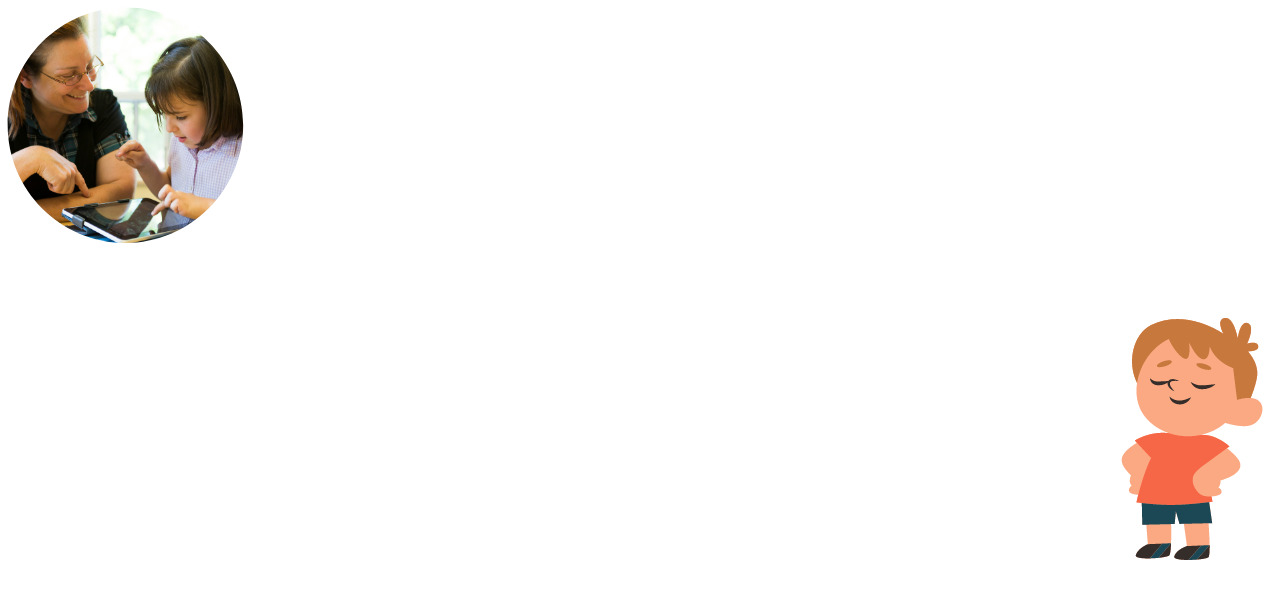
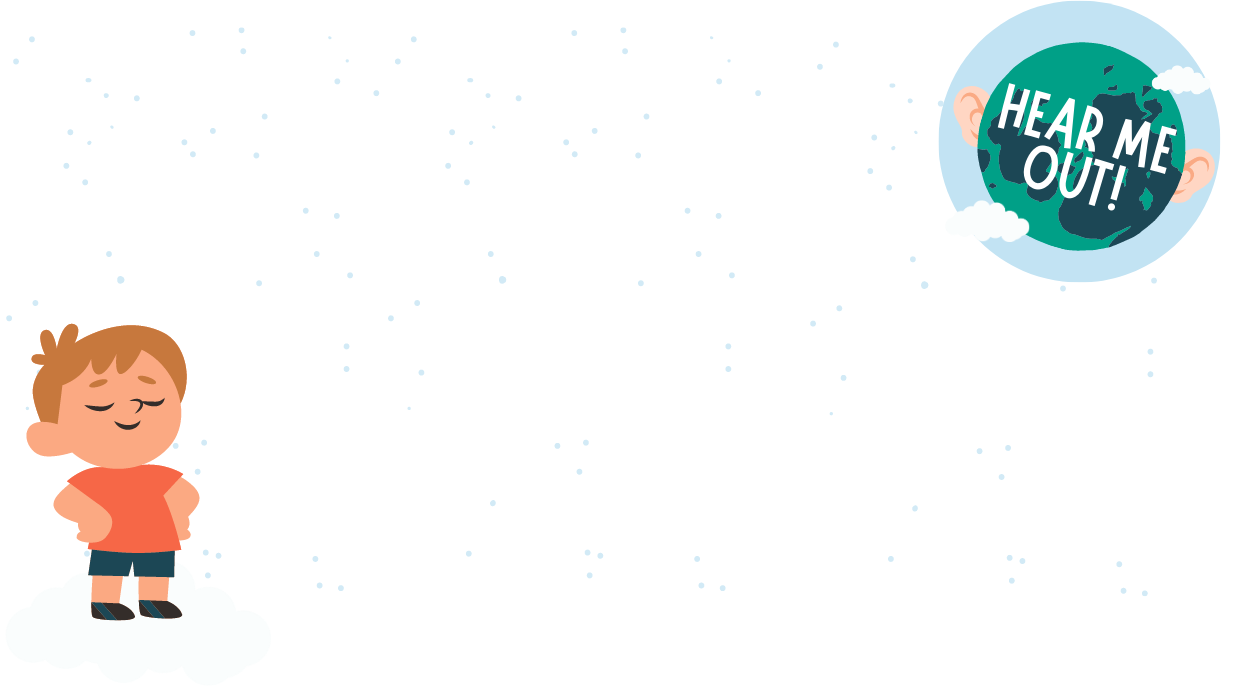
about page complete

diff --git a/minimal-pairs-app/src/pages/AboutPage.js b/minimal-pairs-app/src/pages/AboutPage.js
@@ -1,97 +1,165 @@
-
-// 2ND ATTEMPT
-import React, { useEffect } from 'react';
-import { Typography, List } from '@mui/material';
+import React, { useState } from 'react';
+import { Typography, IconButton, Grid } from '@mui/material';
 import { useTheme } from '@mui/material/styles';
 import PageBg from './../images/pagesBg/skyAndCloudsBg.png';
 import AboutBg from './../images/pagesBg/aboutPageSquar.png';
-import { makeStyles } from '@mui/styles';
-import hearMeOutIcon from './../images/kids/HEARMEOUT-Icon.png';
-const useStyles = makeStyles((theme) => ({
-  background: {
-    position: 'fixed',
-    top: 0,
-    left: 0,
-    width: '100%',
-    height: '100%',
-    backgroundImage: `url(${PageBg})`,
-    backgroundSize: 'cover',
-    backgroundPosition: 'center',
-    backgroundRepeat: 'no-repeat',
-    zIndex: -1,
-  },
-  title: {
-    position: 'absolute',
-    top: 20,
-    left: 20,
-    color: '#fff',
-    fontSize: 24,
-    zIndex: 1,
-  },
-  icon: {
-    position: 'absolute',
-    top: '6%',
-    left: '46%',
-    zIndex: 1,
-    height: '114px', 
-    width: '114px',
-  },
-  mainMenu: {
-    position: 'absolute',
-    width: '75%',
-    left: '50%',
-    top: '45%',
-    transform: 'translate(-50%, -50%)',
-    textAlign: 'right',
-  },
-  backgroundSquare: {
-    width: '100%',
-    maxHeight: '100%',
-  },
-  typography: {
-    position: 'absolute',
-    top: '21%',
-    left: '45%',
-    zIndex: 1,
-   
-  },
-}));
+import nextBtn from './../images/buttons/leftArrowBlueBtn.png';
+import prevBtn from './../images/buttons/rightArrowBlueBtn.png';
+
 function AboutPage() {
-  const classes = useStyles();
   const theme = useTheme();
+  const [currentSection, setCurrentSection] = useState(0);
 
-  useEffect(() => {
-    const handleResize = () => {
-      const title = document.getElementById('title');
-      const iconButton = document.getElementById('iconButton');
-    };
-    window.addEventListener('resize', handleResize);
-
-    return () => {
-      window.removeEventListener('resize', handleResize);
-    };
-  }, []);
-
-  return (
-    <div className={classes.background}>
-       <img src={hearMeOutIcon} className={classes.icon} />
-      <div className={classes.mainMenu}>
-        <center><img className={classes.backgroundSquare} src={AboutBg}></img></center>
-        <div className={classes.typography} >
-          <Typography fontSize={'250%'} fontWeight="bold" color={theme.palette.darkBlue}>
-            אודות
-          </Typography>
-          <Typography>
-            על האפליקציה:<br /><br />
-
-            רקע:<br /><br />
-
-            המפתחות:<br /><br />
+  const sections = [
+    <>
+      <div style={{ padding: '10px', marginTop: '70px' }}>
+        <Typography fontSize={'110%'}>
+        אנחנו - עמית ארליך, מיה בן שטח ויובל הוכמן, סטודנטיות בשנה שלישית למדעי המחשב<br/>
+        באקדמית ת"א-יפו, שמחות לשתף באפליקציה המיוחדת שבנינו<br/><br/>
         </Typography>
+      </div>
+      <div style={{ padding: '40px' }}></div>
+    </>,
+    <>
+      <div style={{ padding: '5px' }}>
+        <Typography fontSize={'150%'} fontWeight="bold" color={theme.palette.darkBlue}>
+        הרעיון שהביא לחיים את האפליקציה
+        </Typography>
+        <Typography fontSize={'110%'}>
+        מדובר בכלי המטרתו לסייע לקלינאי תקשורת באימוני שמיעה מיוחדים,<br/>
+        מותאמים לילדים בגילאי 5 עד 7, שעברו השתלת שתל השבלול עקב חירשות או לקות שמיעה חמורה. למושתל שבלול יש צורך באימוני שמיעה בכדי לרכוש את היכולת להבחין בין חלקי המילה ע"י שמיעה וזאת כדי שיוכל לקלוט, ללמוד ולהבין את השפה ואת משמעות המילים.
+        </Typography>
+      </div>
+      <div style={{ padding: '49px' }}></div>
+    </>,
+    <>
+      <div style={{ padding: '5px' }}>
+        <Typography fontSize={'150%'} fontWeight="bold" color={theme.palette.darkBlue}>
+        משימתנו: שדרוג אימוני שמיעה בעזרת כלי טכנולוגי
+        </Typography>
+        <Typography fontSize={'110%'}>
+        יצרנו פתרון טכנולוגי לאימון ההבחנה של הילדים בין חלקי המילה באמצעות השמיעה.<br/>
+        </Typography>
+        <div style={{ padding: '12px' }}>
+          <Typography fontSize={'110%'}>
+          האפליקציה כוללת תרגולים אטרקטיביים כאשר כל אחד מוגדר לפי סוג תרגול, קוליות, רשימת הגיים וקול הקראה. על הילדים לזהות מילה אחת מתוך שתיים שנבדלות בתכונה אקוסטית אחת. נוסף לכך, האפליקציה כוללת משחקי חיזוק על מנת למשוך את הילדים להמשיך לתרגל ולתגמל
+אותם על הלמידה.
+          </Typography>
         </div>
       </div>
-    </div>
+      <div style={{ padding: '23.5px' }}></div>
+    </>,
+    <>
+      <div style={{ padding: '5px' }}>
+        <Typography fontSize={'150%'} fontWeight="bold" color={theme.palette.darkBlue}>
+        הפרויקט שנוצר משיתוף פעולה מיוחד
+        </Typography>
+        <Typography fontSize={'110%'}>
+        בראש ובראשונה, הכרת תודה ענקית לקלינאית התקשורת ברטי בן-ישי שהייתה חלק
+          </Typography>
+        <Typography fontSize={'110%'}>
+        בלתי נפרד מהפרויקט. תודה ללילך פאר ולכל קלינאי התקשורת שענו על כל שאלה והכווינו במהלך הפיתוח.
+תודה לגיא דוד תרם את קולו והפריח חיים באפליקציה.
+          </Typography>
+          <div style={{ padding: '12px' }}>
+            <Typography fontSize={'110%'}>
+            תודה לכולם על הנתינה הרבה, הזמן והמאמץ שהושקע על הפרויקט.
+            </Typography>
+          </div>
+        </div>
+      <div style={{ padding: '37px' }}></div>
+    </>,
+    <>
+      <div style={{ padding: '10px', marginTop: '70px' }}>
+        <Typography fontSize={'110%'}>
+        אנו גאות להציע את האפליקציה שלנו ככלי ייחודי, מתקדם וטכנולוגי לקלינאי תקשורת והילדים. אנו מתרגשות לחשוף את המוצר לעולם ומזמינות אתכם להיות חלק מהחוויה של אימון שמיעתי משודרג!
+<br/><br/>
+        </Typography>
+      </div>
+      <div style={{ padding: '40px' }}></div>
+    </>,
+  ];
 
+  const goToNextSection = () => {
+    if (currentSection < sections.length - 1) {
+      setCurrentSection(currentSection + 1);
+    }
+  };
+
+  const goToPreviousSection = () => {
+    if (currentSection > 0) {
+      setCurrentSection(currentSection - 1);
+    }
+  };
+
+  return (
+    <div className="App" style={{ 
+      display: 'flex', 
+      justifyContent: 'center', 
+      alignItems: 'center', 
+      height: '100vh',
+      position: 'absolute',
+      width: '100%',
+      backgroundImage: `url(${PageBg})`,
+      backgroundSize: 'cover',
+      backgroundPosition: 'center',
+      backgroundRepeat: 'no-repeat',
+      zIndex: -1,
+      direction: 'rtl',
+    }}>
+      <div className="board-container" style={{ 
+        justifyContent: 'center', 
+        alignItems: 'center', 
+        height: '100vh',
+        width: '90%', // Adjust the width of the container
+        maxWidth: '1000px', // Set a maximum width
+        maxHeight: '500px', 
+        margin: '0 auto', // Center horizontally
+        padding: '20px',
+        backgroundImage: `url(${AboutBg})`,
+        backgroundSize: 'contain',
+        backgroundPosition: 'center',
+        backgroundRepeat: 'no-repeat',
+        zIndex: -1,
+        textAlign: 'center', // Center align the text
+      }}>
+          <div className="board-container" style={{ 
+            padding: '20px',
+            maxHeight: '400px',
+            maxWidth: '700px',
+            margin: '0 auto',
+          }}>
+            <Typography fontSize={'400%'} fontWeight="bold" color={theme.palette.darkBlue}>
+              אודות
+            </Typography>
+            {sections[currentSection]}
+            <div style={{ display: 'flex',
+                          justifyContent: 'center',
+                          gap: '80px',
+                          position: 'relative',
+                          left: 0,
+                          right: 0,
+                          }}>
+              <IconButton onClick={goToPreviousSection}
+                          disabled={currentSection === 0}
+                          style={{
+                            opacity: currentSection === 0 ? 0.5 : 1, 
+                            pointerEvents: currentSection === 0 ? 'none' : 'auto', 
+              }}>
+                <img src={prevBtn} style={{ width: '100%', height: '100%' }} alt="Previous" />
+              </IconButton>
+              <IconButton onClick={goToNextSection}
+                          disabled={currentSection === sections.length - 1}
+                          style={{
+                            opacity: currentSection === sections.length - 1 ? 0.5 : 1, 
+                            pointerEvents: currentSection === sections.length - 1 ? 'none' : 'auto',
+              }}>
+                <img src={nextBtn} style={{ width: '100%', height: '100%' }} alt="Next" />
+              </IconButton>
+            </div>
+          </div>
+        </div>
+    </div>
   );
 }
 

diff --git a/minimal-pairs-app/src/pages/ExercisePage.js b/minimal-pairs-app/src/pages/ExercisePage.js
@@ -212,17 +212,23 @@ export default function ExercisePage() {
           </div>
           <Grid container justifyContent='center' style={{ textAlign: 'center', width: '50%', height: '20%' }}>
             <Grid item xs={4}>
-              <IconButton color="inherit" onClick={handleNextClick} disabled={currentIndex === images?.length - 1} style={{ filter: currentIndex === images?.length - 1 ? "opacity(0)" : undefined }}>
+              <IconButton onClick={handleNextClick} style={{
+                opacity: currentIndex === images?.length - 1 ? 0.5 : 1,
+                pointerEvents: currentIndex === images?.length - 1 ? 'none' : 'auto',
+              }}>
                 <img src={nextBtn} style={{ width: '100%', height: '100%' }} />
               </IconButton>
             </Grid>
             <Grid item xs={4}>
-              <IconButton color="inherit" onClick={handleListenClick}>
+              <IconButton onClick={handleListenClick}>
                 <img src={replaySound} style={{ width: '100%', height: '100%' }} />
               </IconButton>
             </Grid>
             <Grid item xs={4}>
-              <IconButton color="inherit" onClick={handlePreviousClick} disabled={currentIndex === 0} style={{ filter: currentIndex === 0 ? "opacity(0)" : undefined }}>
+              <IconButton onClick={handlePreviousClick} style={{
+                opacity: currentIndex === 0 ? 0.5 : 1,
+                pointerEvents: currentIndex === 0 ? 'none' : 'auto',
+              }}>
                 <img src={prevBtn} style={{ width: '100%', height: '100%' }} />
               </IconButton>
             </Grid>

diff --git a/minimal-pairs-app/src/pages/HelpPage.js b/minimal-pairs-app/src/pages/HelpPage.js
@@ -114,7 +114,7 @@ function HelpPage() {
               <IconButton onClick={goToPreviousSection}
                           disabled={currentSection === 0}
                           style={{
-                            opacity: currentSection === 0 ? 0.7 : 1, // Adjust opacity for disabled state
+                            opacity: currentSection === 0 ? 0.5 : 1, // Adjust opacity for disabled state
                             pointerEvents: currentSection === 0 ? 'none' : 'auto', // Disable pointer events
               }}>
                 <img src={prevBtn} style={{ width: '100%', height: '100%' }} alt="Previous" />
@@ -122,7 +122,7 @@ function HelpPage() {
               <IconButton onClick={goToNextSection}
                           disabled={currentSection === sections.length - 1}
                           style={{
-                            opacity: currentSection === sections.length - 1 ? 0.7 : 1, // Adjust opacity for disabled state
+                            opacity: currentSection === sections.length - 1 ? 0.5 : 1, // Adjust opacity for disabled state
                             pointerEvents: currentSection === sections.length - 1 ? 'none' : 'auto', // Disable pointer events
               }}>
                 <img src={nextBtn} style={{ width: '100%', height: '100%' }} alt="Next" />
